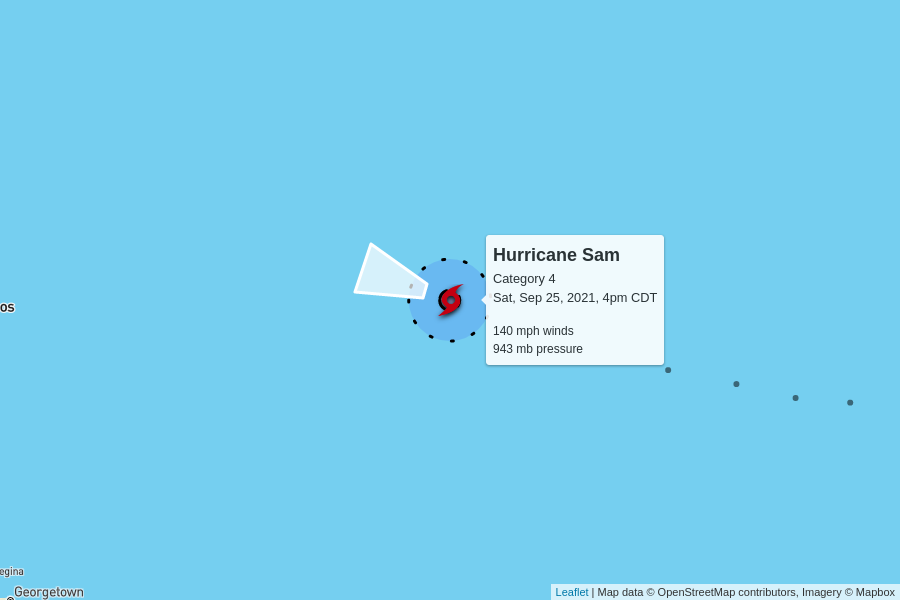
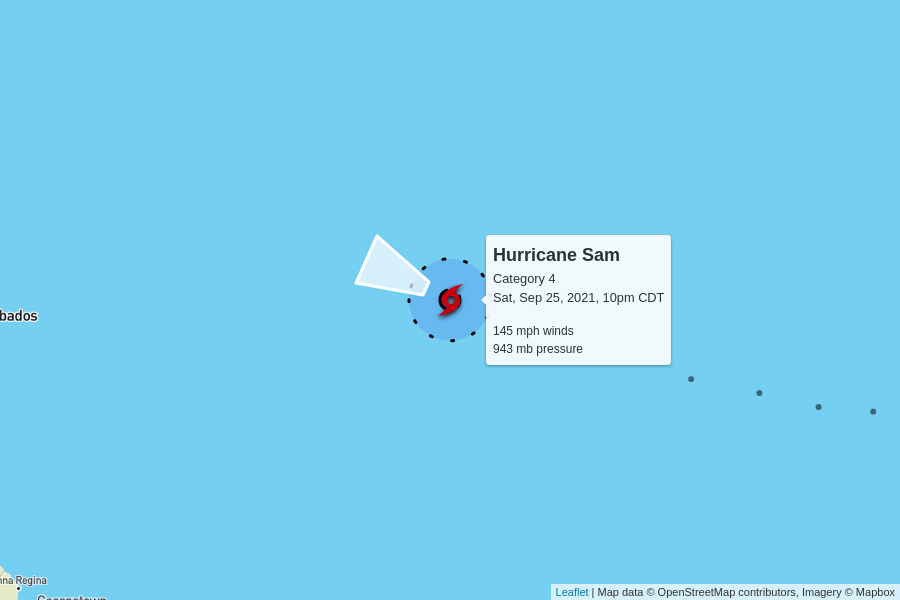
automatic update

diff --git a/docs/index.html b/docs/index.html
@@ -100,7 +100,7 @@
         <td colspan="6" class="storm category-4" >
           <h2>
             Hurricane Sam - Category 4
-            <p class="updated">last updated <span data-time>2021-09-25T21:00:00.000Z</span></p>
+            <p class="updated">last updated <span data-time>2021-09-26T03:00:00.000Z</span></p>
           </h2>
         </td>
       </tr>
@@ -115,12 +115,12 @@
       </tr>
       <tr>
         <td class="spacer"></td>
-        <td>140 mph</td>
+        <td>145 mph</td>
         <td>943 mb</td>
         <td>
-          10 mph to the west-northwest
+          8 mph to the west-northwest
           <br/>
-          <span style="display: inline-block; font-size: 1.5em; transform: rotate(290deg);">↑</span>
+          <span style="display: inline-block; font-size: 1.5em; transform: rotate(295deg);">↑</span>
         </td>
         <td><a href="https://raw.githubusercontent.com/mgwalker/atlantic-hurricanes/main/data/csv/AL182021.csv">AL182021.csv</a></td>
         <td><a href="https://www.nhc.noaa.gov/archive/2021/SAM.shtml?">NHC advisories</a></td>
